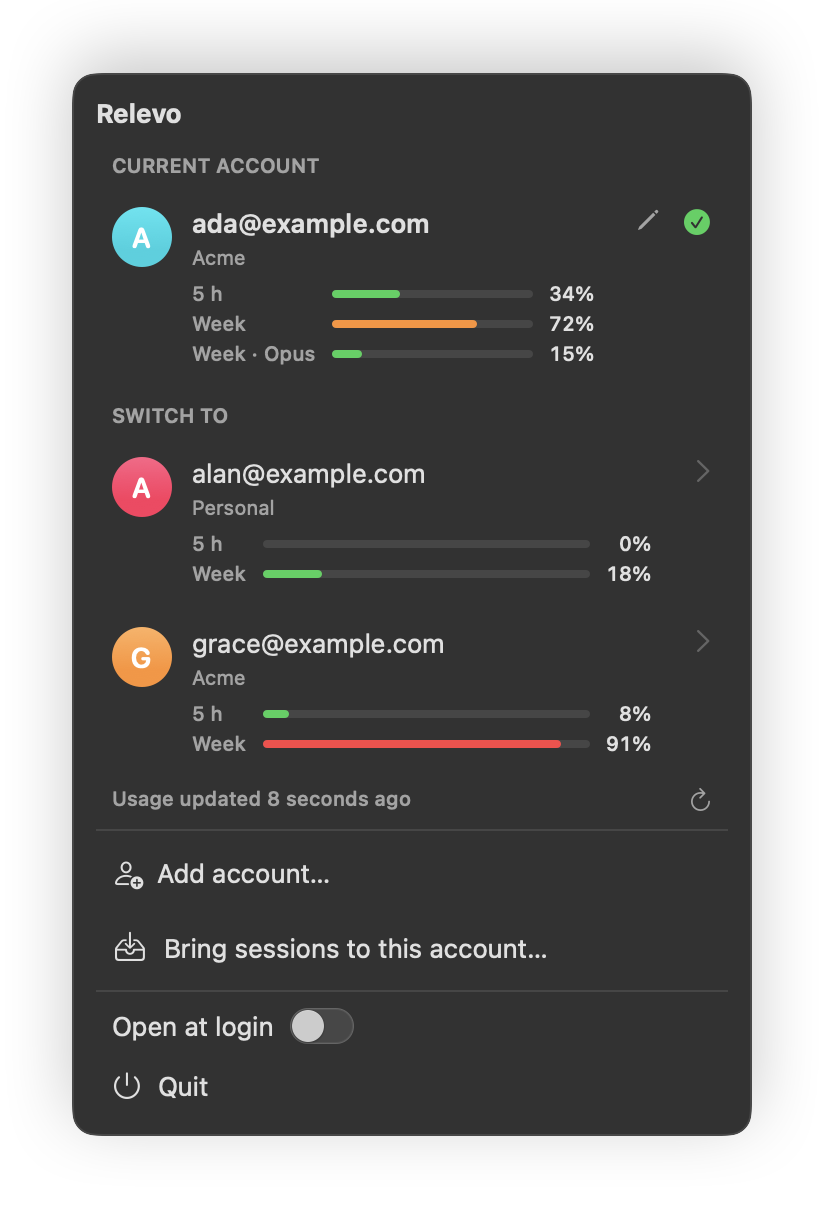
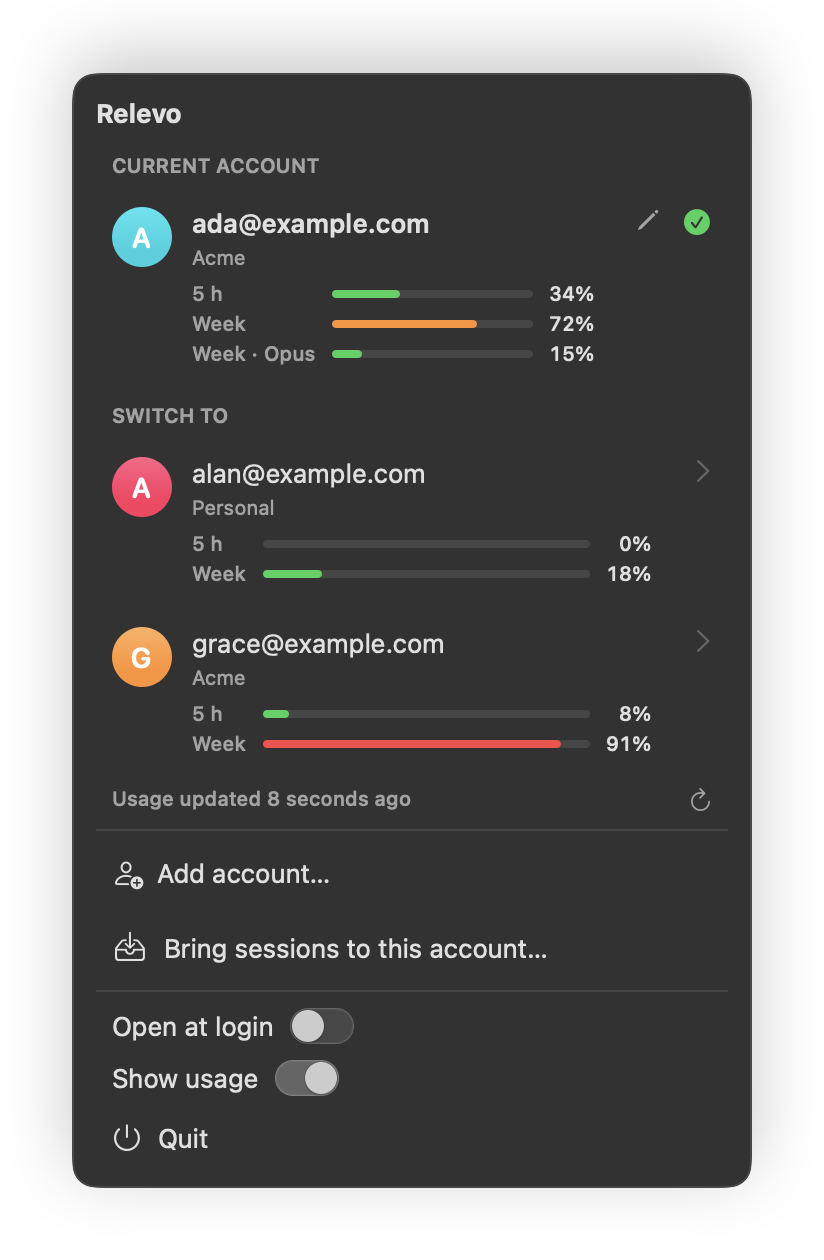
feat: make the usage display opt-in
Reading usage calls a private claude.ai endpoint, which Anthropic's Consumer Terms don't allow outside the API, so it is now off by default. A Show usage toggle asks for confirmation with that warning before the first request, the choice is remembered, and turning it off drops what was read. extra_usage and other unknown windows get readable names.

diff --git a/Tests/RelevoUITests/UsageToggleTests.swift b/Tests/RelevoUITests/UsageToggleTests.swift
@@ -1,0 +1,124 @@
+import Foundation
+import RelevoCore
+import Testing
+@testable import RelevoUI
+
+private let accountA = "aaaaaaaa-0000-0000-0000-000000000001"
+private let accountB = "bbbbbbbb-0000-0000-0000-000000000002"
+private let org = "11111111-0000-0000-0000-00000000000a"
+
+final class FetchCounter: @unchecked Sendable {
+    private let lock = NSLock()
+    private var calls = 0
+
+    var count: Int { lock.withLock { calls } }
+
+    func record() {
+        lock.withLock { calls += 1 }
+    }
+}
+
+@MainActor
+@Suite struct UsageToggleTests {
+    let root = FileManager.default.temporaryDirectory.appending(path: "relevo-ui-\(UUID().uuidString)")
+    let suite = "relevo-ui-tests-\(UUID().uuidString)"
+    let counter = FetchCounter()
+
+    var defaults: UserDefaults { UserDefaults(suiteName: suite)! }
+
+    func model(confirming answer: Bool = true) throws -> AppModel {
+        let paths = DesktopPaths(
+            data: root.appending(path: "data"),
+            logs: root.appending(path: "logs"),
+            storage: root.appending(path: "storage")
+        )
+        try write(["lastKnownAccountUuid": accountA], to: paths.data.appending(path: "config.json"))
+        try write(["auth": [String: String](), "location": "\(accountB)/\(org)"],
+                  to: paths.storage.appending(path: "profiles/\(accountB)/profile.json"))
+        try FileManager.default.createDirectory(at: paths.logs, withIntermediateDirectories: true)
+        try "[LocalSessionManager] Initialization succeeded — accountId=\(accountA), orgId=\(org)\n"
+            .write(to: paths.logs.appending(path: "main.log"), atomically: true, encoding: .utf8)
+
+        let counter = counter
+        let source = UsageSource(prepare: {}, fetch: { _ in
+            counter.record()
+            return Usage(windows: [UsageWindow(id: "five_hour", utilization: 10, resetsAt: nil)], fetchedAt: .now)
+        })
+        return AppModel(
+            store: AccountStore(paths: paths, isClaudeRunning: { false }),
+            usageSource: source,
+            defaults: defaults,
+            confirmUsage: { answer }
+        )
+    }
+
+    func write(_ object: [String: Any], to url: URL) throws {
+        try FileManager.default.createDirectory(at: url.deletingLastPathComponent(), withIntermediateDirectories: true)
+        try JSONSerialization.data(withJSONObject: object).write(to: url)
+    }
+
+    func cleanUp() {
+        try? FileManager.default.removeItem(at: root)
+        UserDefaults.standard.removePersistentDomain(forName: suite)
+    }
+
+    @Test func usageStaysOffUntilTurnedOn() async throws {
+        defer { cleanUp() }
+        let model = try model()
+        await model.refresh()
+
+        await model.refreshUsage(force: true)
+
+        #expect(!model.showsUsage)
+        #expect(counter.count == 0)
+        #expect(model.usage.isEmpty)
+    }
+
+    @Test func turningUsageOnReadsEveryAccountAndIsRemembered() async throws {
+        defer { cleanUp() }
+        let model = try model()
+        await model.refresh()
+
+        await model.setShowsUsage(true)
+
+        #expect(model.showsUsage)
+        #expect(counter.count == 2)
+        #expect(Set(model.usage.keys) == [accountA, accountB])
+        #expect(try self.model().showsUsage)
+    }
+
+    @Test func decliningTheWarningKeepsUsageOff() async throws {
+        defer { cleanUp() }
+        let model = try model(confirming: false)
+        await model.refresh()
+
+        await model.setShowsUsage(true)
+
+        #expect(!model.showsUsage)
+        #expect(counter.count == 0)
+        #expect(!defaults.bool(forKey: "showsUsage"))
+    }
+
+    @Test func turningUsageOffForgetsWhatItRead() async throws {
+        defer { cleanUp() }
+        let model = try model()
+        await model.refresh()
+        await model.setShowsUsage(true)
+
+        await model.setShowsUsage(false)
+        await model.refreshUsage(force: true)
+
+        #expect(model.usage.isEmpty)
+        #expect(model.usageUpdatedAt == nil)
+        #expect(counter.count == 2)
+        #expect(!defaults.bool(forKey: "showsUsage"))
+    }
+}
+
+@Suite struct DisplayTests {
+    @Test func namesEveryUsageWindowReadably() {
+        #expect(Display.windowName("extra_usage") != "extra_usage")
+        #expect(Display.windowName("seven_day_oauth_apps").hasSuffix("Oauth apps"))
+        #expect(Display.windowName("monthly_spend") == "Monthly spend")
+    }
+}

diff --git a/Sources/RelevoUI/AppModel.swift b/Sources/RelevoUI/AppModel.swift
@@ -19,9 +19,14 @@ public final class AppModel {
         case bringing
     }
 
+    static let showsUsageKey = "showsUsage"
+
     let store: AccountStore
     let usageSource: UsageSource
+    let defaults: UserDefaults
+    let confirmUsage: @MainActor () -> Bool
     public internal(set) var snapshot = Snapshot.empty
+    public private(set) var showsUsage: Bool
     public var screen = Screen.home
     var progress: String?
     var notice: String?
@@ -30,9 +35,17 @@ public final class AppModel {
     var usageUpdatedAt: Date?
     var needsKeychainAccess = false
 
-    public init(store: AccountStore = AccountStore(), usageSource: UsageSource? = nil) {
+    public init(
+        store: AccountStore = AccountStore(),
+        usageSource: UsageSource? = nil,
+        defaults: UserDefaults = .standard,
+        confirmUsage: (@MainActor () -> Bool)? = nil
+    ) {
         self.store = store
         self.usageSource = usageSource ?? .claudeAI(store: store)
+        self.defaults = defaults
+        self.confirmUsage = confirmUsage ?? AppModel.askToShowUsage
+        showsUsage = defaults.bool(forKey: Self.showsUsageKey)
     }
 
     private var names: [String: String] {
@@ -44,7 +57,23 @@ public final class AppModel {
         snapshot = await Task.detached { store.snapshot() }.value
     }
 
+    public func setShowsUsage(_ enabled: Bool) async {
+        if enabled, !showsUsage, !confirmUsage() {
+            return
+        }
+        showsUsage = enabled
+        defaults.set(enabled, forKey: Self.showsUsageKey)
+        if enabled {
+            await refreshUsage(force: true)
+        } else {
+            usage = [:]
+            usageUpdatedAt = nil
+            needsKeychainAccess = false
+        }
+    }
+
     public func refreshUsage(force: Bool = false) async {
+        guard showsUsage else { return }
         if !force, let usageUpdatedAt, Date.now.timeIntervalSince(usageUpdatedAt) < 60 { return }
         let accounts = snapshot.accounts.filter { $0.location != nil }
         guard !accounts.isEmpty else { return }
@@ -148,6 +177,16 @@ public final class AppModel {
             show(Display.message(for: error, names: names))
         }
         await refresh()
+    }
+
+    static func askToShowUsage() -> Bool {
+        NSApp.activate()
+        let alert = NSAlert()
+        alert.messageText = String(localized: "Show each account's usage?")
+        alert.informativeText = String(localized: "Relevo will read each account's session from Claude Desktop and ask claude.ai for its usage, at most once a minute while the menu is open. Anthropic's terms don't allow automated access to Claude outside its API, so you use this at your own risk. macOS will ask for access to the “Claude Safe Storage” keychain item.")
+        alert.addButton(withTitle: String(localized: "Show usage"))
+        alert.addButton(withTitle: String(localized: "Cancel"))
+        return alert.runModal() == .alertFirstButtonReturn
     }
 
     private func show(_ message: String) {

diff --git a/Sources/Screenshots/Screenshots.swift b/Sources/Screenshots/Screenshots.swift
@@ -95,9 +95,11 @@ final class Renderer: NSObject, NSApplicationDelegate {
                 let usage = UsageSource(prepare: {}, fetch: { account in
                     Usage(windows: Demo.usage[account.id] ?? [], fetchedAt: .now)
                 })
-                let model = AppModel(store: store, usageSource: usage)
+                let defaults = UserDefaults(suiteName: "relevo-screenshots")!
+                defaults.removeObject(forKey: "showsUsage")
+                let model = AppModel(store: store, usageSource: usage, defaults: defaults, confirmUsage: { true })
                 await model.refresh()
-                await model.refreshUsage(force: true)
+                await model.setShowsUsage(true)
                 for appearance in [NSAppearance.Name.aqua, .darkAqua] {
                     for screen in screens {
                         try await render(screen, model: model, appearance: appearance)

diff --git a/Sources/RelevoUI/Display.swift b/Sources/RelevoUI/Display.swift
@@ -20,10 +20,17 @@ enum Display {
             return String(localized: "5 h")
         case "seven_day":
             return String(localized: "Week")
+        case "extra_usage":
+            return String(localized: "Extra usage")
         default:
-            guard id.hasPrefix("seven_day_") else { return id }
-            return String(localized: "Week · \(id.dropFirst("seven_day_".count).capitalized)")
+            guard id.hasPrefix("seven_day_") else { return readable(id) }
+            return String(localized: "Week · \(readable(String(id.dropFirst("seven_day_".count))))")
         }
+    }
+
+    private static func readable(_ id: String) -> String {
+        let words = id.replacingOccurrences(of: "_", with: " ")
+        return words.prefix(1).uppercased() + words.dropFirst()
     }
 
     static func message(for error: Error, names: [String: String]) -> String {

diff --git a/Sources/RelevoUI/MenuView.swift b/Sources/RelevoUI/MenuView.swift
@@ -106,6 +106,13 @@ struct HomeView: View {
             .toggleStyle(.switch)
             .controlSize(.small)
             .padding(.horizontal, 8)
+            Toggle("Show usage", isOn: Binding(
+                get: { model.showsUsage },
+                set: { enabled in Task { await model.setShowsUsage(enabled) } }
+            ))
+            .toggleStyle(.switch)
+            .controlSize(.small)
+            .padding(.horizontal, 8)
             MenuRow(title: "Quit", systemImage: "power") { NSApp.terminate(nil) }
         }
     }

diff --git a/Package.swift b/Package.swift
@@ -29,5 +29,9 @@ let package = Package(
             dependencies: ["RelevoCore"],
             linkerSettings: [.linkedLibrary("sqlite3")]
         ),
+        .testTarget(
+            name: "RelevoUITests",
+            dependencies: ["RelevoCore", "RelevoUI"]
+        ),
     ]
 )

diff --git a/README.md b/README.md
@@ -5,8 +5,8 @@
 <h1 align="center">Relevo</h1>
 
 <p align="center">
-  A menu bar app for Claude Desktop: switch between accounts, take your open
-  sessions with you, and see at a glance which account still has room.
+  A menu bar app for Claude Desktop: switch between your accounts with one
+  click and take your open sessions with you.
 </p>
 
 <p align="center">
@@ -46,9 +46,9 @@ handover between shifts, which is what it does with your work.
 - **Sessions follow you.** When you switch, the open Code sessions of the
   account you're leaving are ticked to come along. Untick any you want to leave
   behind, or pick sessions from other accounts too.
-- **Usage at a glance.** Every account shows its 5-hour and weekly windows,
-  plus the busiest per-model weekly limit, in green, orange or red. Hover a bar
-  to see when it resets.
+- **Optional usage display.** Off by default. When you turn it on, every
+  account shows its 5-hour and weekly windows, plus the busiest other limit, in
+  green, orange or red. Hover a bar to see when it resets.
 - **Add accounts in place.** It saves the current login and opens Claude signed
   out; you sign in with the other account once, and from then on it's a click.
 - **English and Spanish**, following the system language.
@@ -98,14 +98,26 @@ the menu bar; turn on **Open at login** from its menu to keep it there.
    signed out; sign in with that account.
 2. **Switch.** Open the menu and click the account you want. Untick any
    sessions you'd rather leave where they are, then **Switch**.
-3. **See usage.** The first time you open the menu, macOS asks whether Relevo
-   may use the `Claude Safe Storage` keychain item. Allow it to see each
-   account's usage; everything else works without it.
+3. **Usage, if you want it.** Turn on **Show usage** in the menu. Relevo
+   explains what it does, and macOS asks whether it may use the
+   `Claude Safe Storage` keychain item. Read
+   [About the usage display](#about-the-usage-display) first.
 
 > [!WARNING]
 > Never use Claude's own **Log out** on an account you want to keep. It ends the
 > session on Anthropic's side, and the saved login stops working. If it happens,
 > sign in again; the next switch saves the new login.
+
+## About the usage display
+
+Claude Desktop doesn't show how much of each account's limits you've used, so
+Relevo asks claude.ai's private usage endpoint directly, with each account's
+session. Anthropic's [Consumer Terms](https://www.anthropic.com/legal/consumer-terms)
+don't allow accessing Claude through automated means except with an API key,
+so this is off by default and turning it on is your call, at your own risk.
+
+Switching accounts and moving sessions never contact Anthropic: they only move
+Claude Desktop's own files on your Mac.
 
 ## How it works
 
@@ -125,8 +137,9 @@ Claude Desktop keeps its data in `~/Library/Application Support/Claude`.
 - **Current account.** It comes from the last
   `[LocalSessionManager] Initialization succeeded` line in
   `~/Library/Logs/Claude/main*.log`.
-- **Usage.** It comes from `https://claude.ai/api/organizations/<org>/usage`,
-  called with each account's `sessionKey`. Chromium encrypts that cookie with a
+- **Usage**, only with **Show usage** on. It comes from
+  `https://claude.ai/api/organizations/<org>/usage`, called with each account's
+  `sessionKey`. Chromium encrypts that cookie with a
   key derived from the `Claude Safe Storage` keychain item, which is why macOS
   asks for permission.
 
@@ -135,8 +148,9 @@ anything.
 
 ## Privacy
 
-- The only network calls are the usage requests to claude.ai, one per account,
-  at most once a minute while the menu is open.
+- With **Show usage** off, the default, Relevo makes no network requests. With
+  it on, the only requests go to claude.ai, one per account, at most once a
+  minute while the menu is open.
 - Saved logins stay on your Mac, in a folder only your user can read. The
   keychain key and the decrypted cookies are only held in memory.
 - No analytics, no telemetry, no update checks.
@@ -153,9 +167,8 @@ anything.
 ## Localization
 
 The English text in the code is the key. Translations live in
-`Resources/Localization/<language>.lproj/Localizable.strings`, and
-`InfoPlist.strings` there localizes the app's name. To add a language, add a
-folder and run `scripts/check-localizations`, which lists the keys that
+`Resources/Localization/<language>.lproj/Localizable.strings`. To add a
+language, add a folder and run `scripts/check-localizations`, which lists the keys that
 language is missing or no longer uses.
 
 ## Development
